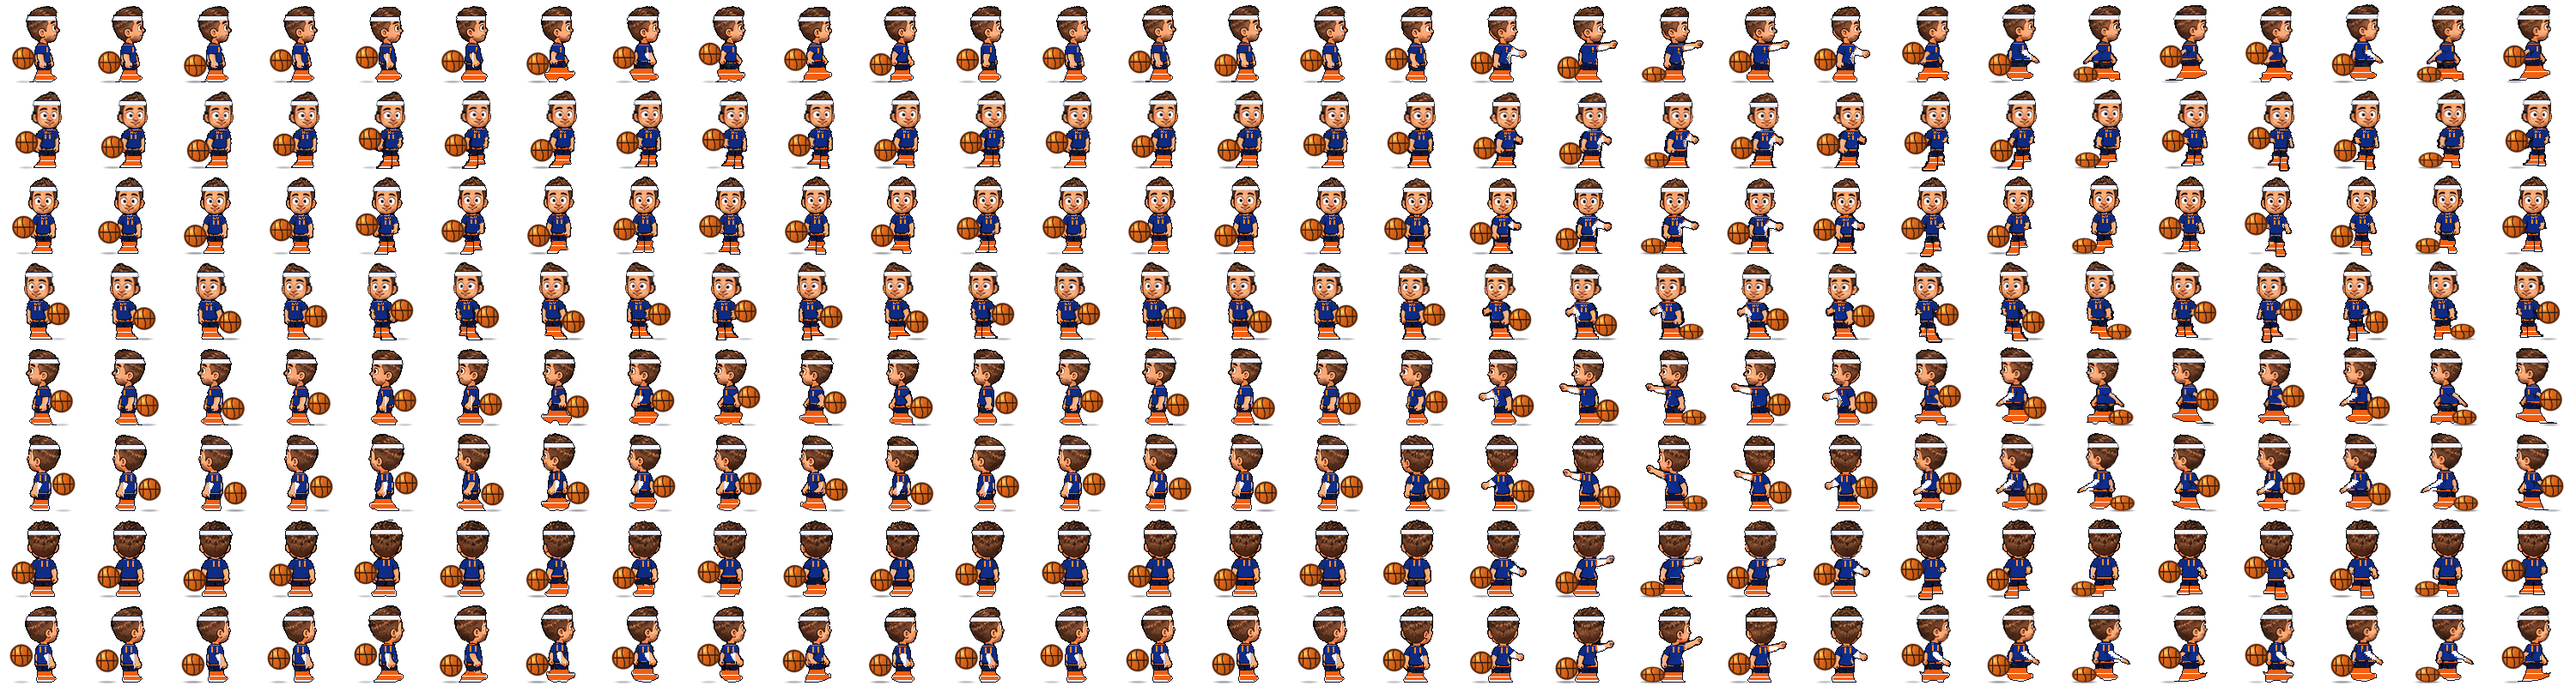
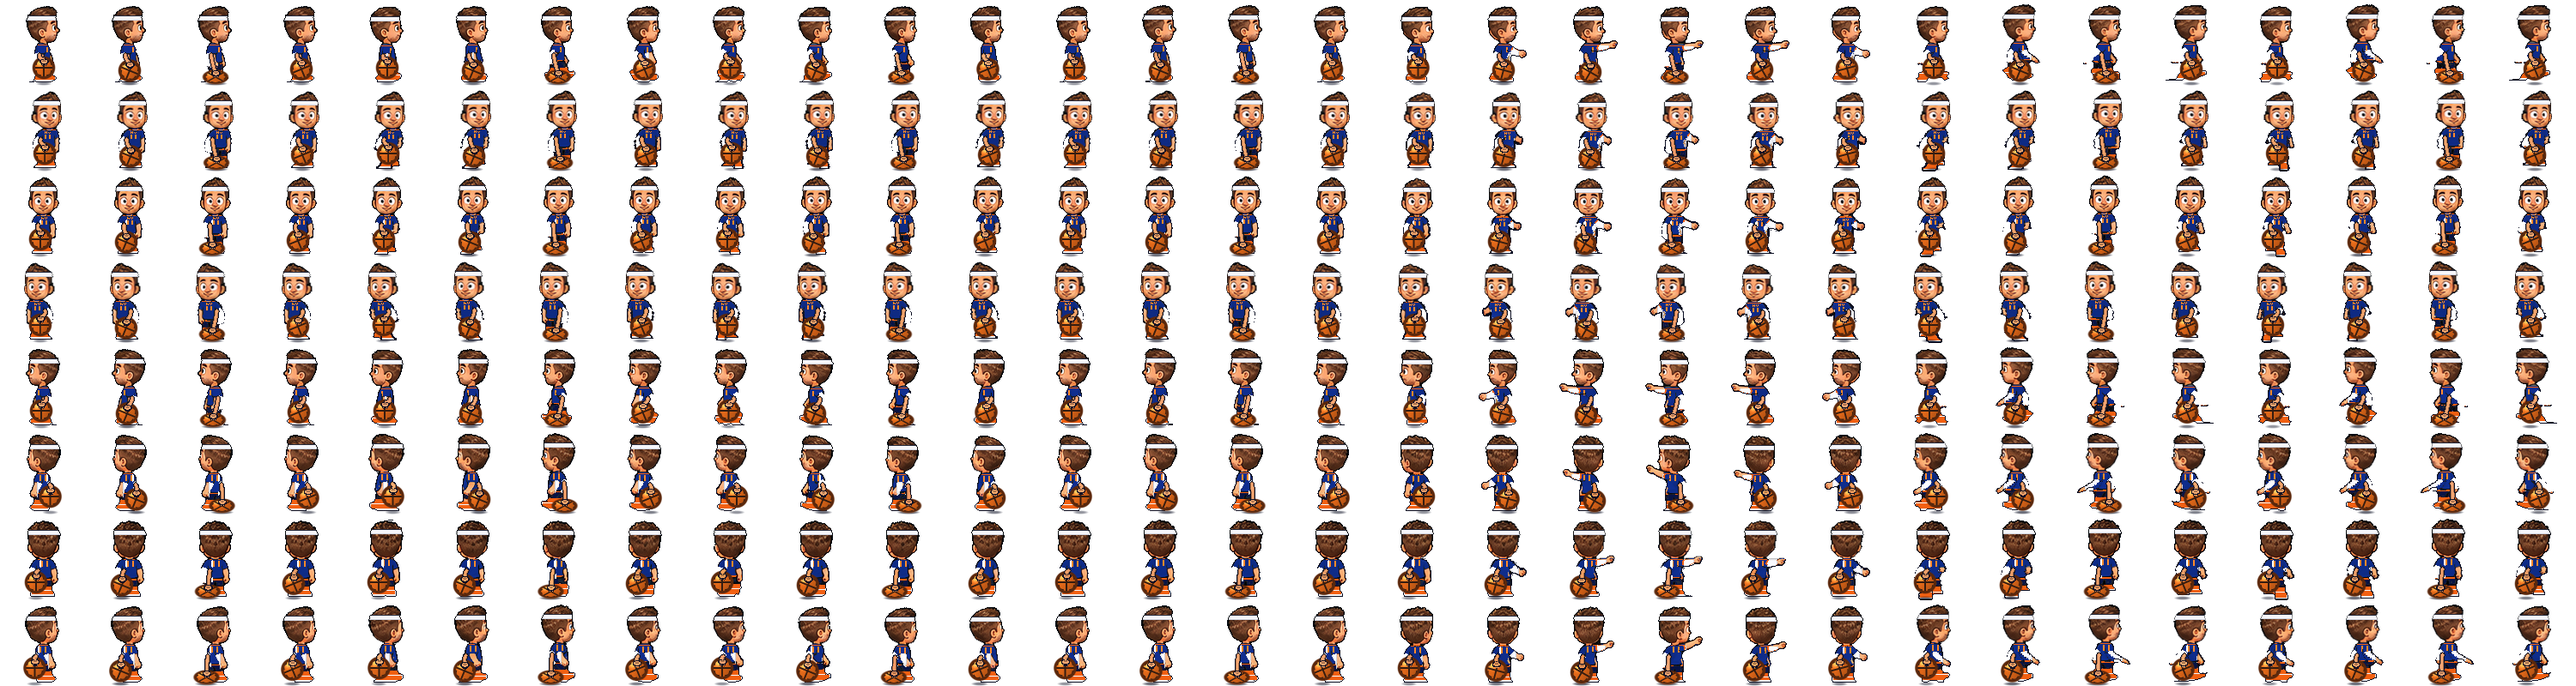
Draw a dribbling arm and spin the ball in front of the feet.
The ball now lands over the legs, with its bounce bottom at or below the feet and a ground shadow. The non-tagging arm is redrawn from the shoulder onto the ball so the hand stays with it on every frame, including the tag reach. Seams turn a quarter rotation each bounce.

diff --git a/phaser-tag-client/tools/make_basketball_skin.py b/phaser-tag-client/tools/make_basketball_skin.py
@@ -16,12 +16,16 @@ Per frame:
   3. the arm James tags with -> white compression sleeve (hand stays bare);
   4. white headband across the forehead (wraps the hair on back views);
   5. sneakers -> orange with a white sole, side stripe and toe;
-  6. an orange basketball with dark seams, dribbled on every frame by the
-     other hand. It bounces from that hand toward the ground in step with
-     the animation and is always drawn in front of the body, off to the
-     dribbling side, so it stays fully visible in every direction.
+  6. an orange basketball with dark seams, dribbled on every frame. The
+     ball sits in front of the legs (low on the screen, contact at or
+     below the feet) with a ground shadow. The dribbling arm is redrawn
+     from the shoulder onto the ball so the hand tracks the bounce. Seams
+     turn 90 degrees per bounce. North views keep the ball just off the
+     dribbling hand, still low and drawn over the body. The sleeve arm
+     still reaches on the tag frames.
 
-Face, hair (under the headband) and hands are untouched.
+Face and hair (under the headband) are untouched. The tagging hand stays
+the original skin; the dribbling arm is painted over the body.
 
 Requires: Python 3 + Pillow + numpy.  Usage:
     python3 tools/make_basketball_skin.py [--preview /tmp/basketball_preview.png]
@@ -128,17 +132,26 @@ def centered_pattern(pattern: tuple[str, ...], cx: float, y: int) -> tuple[int, 
     return int(round(cx - (width - 1) / 2)), y
 
 
-# Bounce amount: 0 = up in the hand, 1 = on the ground.
-# Idle, breathe and walk (the skins-card preview) stay up by the hand.
-# A full rest on the floor reads as the ball just sitting by the feet.
-# Run and tag still bounce all the way down.
+# Bounce amount: 0 = up in the hand, 1 = on the ground in front of the feet.
+# Every loop (including idle, which the skins card plays) shows the full
+# dribble: hand on the ball, push down, contact, rebound.
 def bounce_t(anim: str, index: int) -> float:
-    if anim in ("idle", "breathe", "walk"):
-        return (0.0, 0.38, 0.62, 0.22)[index % 4]
-    if anim == "run":
-        return (0.0, 0.70, 1.0, 0.28)[index % 4]
-    # tag: 6 frames, squash on the held reach (index 3)
-    return (0.08, 0.42, 0.82, 1.0, 0.48, 0.14)[index]
+    if anim == "tag":
+        # squash on the held reach (index 3); the sleeve arm is out tagging
+        return (0.0, 0.48, 0.86, 1.0, 0.42, 0.12)[index]
+    return (0.0, 0.58, 1.0, 0.30)[index % 4]
+
+
+# Clockwise quarter-turn per bounce. The seam pattern is 90-degree
+# symmetric, so the first frame of the next bounce matches the last step
+# and the loop does not pop. Same direction in every facing.
+SPIN_PER_BOUNCE = 90.0
+
+
+def spin_deg(anim: str, index: int) -> float:
+    if anim == "tag":
+        return index * (SPIN_PER_BOUNCE / 6.0)
+    return (index % 4) * (SPIN_PER_BOUNCE / 4.0)
 
 
 def dribble_hand(f: np.ndarray, g: Geometry, direction: str) -> tuple[float, float]:
@@ -216,20 +229,22 @@ def fist_mask(arm: np.ndarray, g: Geometry, direction: str) -> np.ndarray:
     return arm & ((xx - g.head_cx) * tag >= cut) & (np.arange(h)[:, None] > g.neck)
 
 
-def ball_layer(size, cx: float, cy: float, rx: float, ry: float, shadow: float) -> np.ndarray:
-    """Premultiplied basketball + a ground shadow. `shadow` is 0..1 strength."""
+def ball_layer(size, cx: float, cy: float, rx: float, ry: float, shadow: float,
+               spin: float) -> np.ndarray:
+    """Premultiplied basketball + a ground shadow. `shadow` is 0..1 strength.
+    `spin` is degrees clockwise; only the seams turn (the highlight stays put)."""
     Y, X = grid(size)
     col = np.zeros((*Y.shape, 3), dtype=np.float64)
     alpha = np.zeros(Y.shape, dtype=np.float64)
 
-    # contact shadow, sitting on the ground line
+    # contact shadow on the ground, under the ball, a hair in front of the feet
     if shadow > 0.02:
-        sx = (X - cx) / (rx * (0.62 + 0.45 * shadow))
-        sy = (Y - (GROUND - 0.6)) / 1.55
+        sx = (X - cx) / (rx * (0.55 + 0.28 * shadow))
+        sy = (Y - (GROUND + 1.5)) / 2.05
         sd = sx * sx + sy * sy
-        sa = np.clip(1.15 - sd, 0.0, 1.0) * (0.16 + 0.42 * shadow)
+        sa = np.clip(1.2 - sd, 0.0, 1.0) * (0.28 + 0.55 * shadow)
         # don't let the shadow paint over the ball fill; ball wins later
-        alpha = np.maximum(alpha, sa * 0.85)
+        alpha = np.maximum(alpha, sa * 0.9)
         col = np.where(sa[..., None] > 0.04, INK, col)
 
     nx = (X - cx) / max(rx, 0.1)
@@ -248,17 +263,31 @@ def ball_layer(size, cx: float, cy: float, rx: float, ry: float, shadow: float) 
     col = np.where(inside[..., None], base, col)
     alpha = np.where(inside, np.maximum(alpha, aa), alpha)
 
-    # seams in normalised ball space, so they follow the squash
+    # seams in normalised ball space, so they follow the squash.
+    # Sampled through a clockwise rotation. The motif itself (cross plus
+    # four copied panel arcs) has 90-degree symmetry, so a quarter-turn
+    # per bounce lands back on the same picture.
+    ang = np.deg2rad(spin)
+    ca, sa = np.cos(ang), np.sin(ang)
+    px = nx * ca + ny * sa
+    py = -nx * sa + ny * ca
+
     def seam(mask: np.ndarray) -> None:
         m = mask & (r < 0.96)
         col[m] = SEAM
         alpha[m] = np.maximum(alpha[m], aa[m])
 
-    seam(np.abs(ny) < 0.055)
-    seam(np.abs(nx - 0.12 * np.sin(ny * np.pi)) < 0.05)
-    seam((np.abs(np.abs(nx) - 0.55) < 0.045) & (np.abs(ny) < 0.62))
+    band = 0.072
+    seam((np.abs(px) < band) | (np.abs(py) < band))
+    for k in range(4):
+        a = k * (np.pi / 2.0)
+        c, s = np.cos(a), np.sin(a)
+        qx = px * c + py * s
+        qy = -px * s + py * c
+        arc = np.abs(np.hypot(qx - 0.20, qy) - 0.68) < 0.055
+        seam(arc & (qx > 0.22) & (np.abs(qy) < 0.70))
     # outline
-    edge = inside & (r > 0.84)
+    edge = inside & (r > 0.76)
     col[edge] = BALL_EDGE
     return down(col, alpha, size)
 
@@ -418,31 +447,138 @@ def paint_uniform(f: np.ndarray, g: Geometry, direction: str) -> tuple[np.ndarra
     return out, chest, hands | fist
 
 
-def place_ball(body: np.ndarray, g: Geometry, direction: str, anim: str, index: int) -> tuple[float, float, float, float, bool]:
-    """cx, cy, rx, ry. The ball is always beside the dribbling hand and
-    drawn in front of the body (see baller)."""
+def place_ball(g: Geometry, direction: str, anim: str, index: int) -> tuple[float, float, float, float]:
+    """Ball in front of the kid: overlapping the legs, contact at or below
+    the feet line (toward the camera). Back views shift it onto the
+    dribbling-hand side so it isn't buried in the torso, but the contact
+    stays on the near side of the feet."""
     side = -TAG_SIDE[direction]
-    _hx, hy = dribble_hand(body, g, direction)
+    # screen-x of the direction he faces. Depth ("in front") is always +y.
+    ahead = {"E": 1.0, "SE": 0.70, "S": 0.0, "SW": -0.70, "W": -1.0,
+             "NW": -0.40, "N": 0.0, "NE": 0.40}[direction]
     t = bounce_t(anim, index)
     squashed = t > 0.92
-    ry = BALL_R * (0.70 if squashed else 1.0)
-    rx = BALL_R * (1.10 if squashed else 1.0)
-    # Far enough out that the ball sits beside the body instead of inside
-    # the silhouette. Back views push a little further so the circle clears
-    # the shoulders. X does not follow the swinging arm.
-    outward = {"E": 22.0, "SE": 22.4, "S": 23.0, "SW": 22.4,
-               "W": 22.0, "NW": 23.6, "N": 24.2, "NE": 23.6}[direction]
-    if anim == "tag":
-        outward += 1.6
-    bx = g.head_cx + side * outward
-    # Top of the bounce is up by the hand. A raised run arm must not
-    # carry the ball into the face.
-    cy_hand = float(np.clip(hy - BALL_R * 0.15, g.hem - 22.0, g.hem - 10.0))
-    cy_ground = GROUND - ry
-    cy = cy_hand + (cy_ground - cy_hand) * (t ** 1.15)
+    ry = BALL_R * (0.64 if squashed else 1.0)
+    rx = BALL_R * (1.16 if squashed else 1.0)
+    if direction in BACK:
+        # just off the dribbling hand, still overlapping that leg
+        bx = g.head_cx + side * 9.0 + ahead * 2.5
+    elif direction in PROFILE:
+        bx = g.head_cx + ahead * 3.5 + side * 2.0
+    else:
+        bx = g.head_cx + side * 3.5 + ahead * 3.0
+    # unsquashed contact: bottom ~2px below the feet. The high point only
+    # lifts a little, so the ball stays in front of the legs instead of
+    # riding up beside the hip. Squash keeps the same bottom.
+    contact_y = GROUND + 2.2
+    cy_contact = contact_y - BALL_R
+    lift = 6.0
+    if squashed:
+        cy = contact_y - ry
+    else:
+        cy = (cy_contact - lift) + lift * (t ** 1.05)
     margin = 1.0
-    bx = float(np.clip(bx, rx + margin, body.shape[1] - rx - margin))
+    bx = float(np.clip(bx, rx + margin, 100.0 - rx - margin))
     return bx, float(cy), float(rx), float(ry)
+
+
+def drop_limp_arm(body: np.ndarray, g: Geometry, direction: str) -> np.ndarray:
+    """Remove the hanging arm on the dribble side. The sleeve (tag) arm is
+    white, so the skin arm left on that side is the one we replace. The
+    tag-side fist stays, including on the reach frames."""
+    h, w = body.shape[:2]
+    yy = np.arange(h)[:, None]
+    xx = np.arange(w)[None, :].astype(np.float64)
+    side = float(-TAG_SIDE[direction])
+    face = (yy <= g.neck + 1) & skin_mask(body)
+    arms, _hands = arms_and_hands(body, g, face)
+    on_side = (xx - g.head_cx) * side > 3.0
+    limp = arms & on_side & (yy > g.neck + 1)
+    dark = alpha_mask(body) & (lum(body) < 70) & on_side & (yy > g.neck + 1)
+    limp = limp | grow(limp, dark, 1)
+    out = body.copy()
+    out[limp] = 0
+    return out
+
+
+def _stamp(rgba: np.ndarray, pts: np.ndarray, rx: float, ry: float, color: np.ndarray) -> None:
+    """Hard-edged discs. rx == ry is a circle; a wider rx reads as a mitt."""
+    h, w = rgba.shape[:2]
+    ys = np.arange(h)[:, None]
+    xs = np.arange(w)[None, :]
+    mask = np.zeros((h, w), dtype=bool)
+    for x, y in pts:
+        mask |= ((xs - x) / rx) ** 2 + ((ys - y) / ry) ** 2 <= 1.0
+    rgba[mask, :3] = np.clip(color, 0, 255)
+    rgba[mask, 3] = 255
+
+
+def _segment(p0: tuple[float, float], p1: tuple[float, float], n: int = 14) -> np.ndarray:
+    ts = np.linspace(0.0, 1.0, n)
+    return np.stack([p0[0] * (1 - ts) + p1[0] * ts, p0[1] * (1 - ts) + p1[1] * ts], axis=1)
+
+
+def draw_dribble_arm(rgba: np.ndarray, g: Geometry, direction: str,
+                     bx: float, by: float, ry: float, t: float) -> None:
+    """Slim arm from the shoulder to a mitt on the crown of the ball.
+    A small outward bow while the ball is up, straightening as the hand
+    pushes down. The forearm stops at the wrist so it doesn't stab
+    through the ball. Drawn after the ball."""
+    side = float(-TAG_SIDE[direction])
+    if direction in PROFILE:
+        sx = g.head_cx + side * 6.0
+        sy = float(g.neck + 14)
+    elif direction in BACK:
+        sx = g.head_cx + side * 9.0
+        sy = float(g.neck + 15)
+    else:
+        sx = g.head_cx + side * 8.5
+        sy = float(g.neck + 13)
+    # start inside the shirt so the arm grows out of the shoulder
+    sx0, sy0 = sx - side * 2.0, sy
+
+    # mitt centred on the crown, overlapping the leather
+    hx = bx
+    hy = by - ry * 0.58
+    # wrist: a few pixels above the mitt, back toward the shoulder
+    wx = hx + (sx0 - hx) * 0.22
+    wy = hy - 2.6
+
+    bow = 2.6 * (1.0 - t) + 0.8
+    mx = (sx0 + wx) * 0.5 + side * bow
+    my = (sy0 + wy) * 0.5 + 0.6
+    ts = np.linspace(0.0, 1.0, 22)
+    omt = 1.0 - ts
+    limb = np.stack([
+        omt ** 2 * sx0 + 2 * omt * ts * mx + ts ** 2 * wx,
+        omt ** 2 * sy0 + 2 * omt * ts * my + ts ** 2 * wy,
+    ], axis=1)
+
+    face = skin_mask(rgba) & (np.arange(rgba.shape[0])[:, None] < g.neck - 2)
+    face = face & (np.arange(rgba.shape[0])[:, None] > g.top + 16)
+    samples = rgba[face][:, :3].astype(np.float64)
+    if len(samples) >= 8:
+        tone = np.median(samples, axis=0)
+    else:
+        tone = np.array([244.0, 190.0, 140.0])
+    shade = np.clip(tone * 0.70, 0, 255)
+    edge = INK
+
+    # forearm ~6px wide, close to the kid's own arms
+    _stamp(rgba, limb, 3.15, 3.15, edge)
+    _stamp(rgba, limb, 2.15, 2.15, shade)
+    _stamp(rgba, limb, 1.25, 1.25, tone)
+
+    # three short fingers on the leather, then the palm over their base
+    fingers = []
+    for dx in (-2.5, 0.0, 2.5):
+        fingers.append(_segment((hx + dx, hy + 0.2), (hx + dx * 0.75, hy + 3.5), 6))
+    fing = np.concatenate(fingers, axis=0)
+    _stamp(rgba, fing, 1.35, 1.35, edge)
+    _stamp(rgba, fing, 0.75, 0.75, tone)
+    _stamp(rgba, np.array([[hx, hy + 0.3]]), 5.3, 3.5, edge)
+    _stamp(rgba, np.array([[hx, hy]]), 3.9, 2.4, tone)
+    _stamp(rgba, np.array([[hx, hy - 0.7]]), 2.2, 1.15, shade)
 
 
 def baller(frame: np.ndarray, direction: str, anim: str, index: int) -> np.ndarray:
@@ -451,13 +587,15 @@ def baller(frame: np.ndarray, direction: str, anim: str, index: int) -> np.ndarr
         return src
     g = Geometry(src)
     body, _chest, _hands = paint_uniform(src, g, direction)
-    # geometry may have shifted a pixel after streak-filling; re-read it
     g = Geometry(body)
-    bx, by, rx, ry = place_ball(body, g, direction, anim, index)
+    body = drop_limp_arm(body, g, direction)
     t = bounce_t(anim, index)
-    layer = ball_layer(body.shape[:2], bx, by, rx, ry, shadow=0.25 + 0.75 * t)
-    # Always in front. Nothing, including the back of the jersey, covers it.
-    return to_u8(over(premul(body), layer))
+    bx, by, rx, ry = place_ball(g, direction, anim, index)
+    layer = ball_layer(body.shape[:2], bx, by, rx, ry, shadow=0.40 + 0.60 * t, spin=spin_deg(anim, index))
+    merged = to_u8(over(premul(body), layer))
+    # arm and hand over the body and over the top of the ball
+    draw_dribble_arm(merged, g, direction, bx, by, ry, t)
+    return merged
 
 
 def anim_of(col: int, meta: dict) -> tuple[str, int]:

diff --git a/phaser-tag-client/README.md b/phaser-tag-client/README.md
@@ -335,8 +335,10 @@ skin carries its own frame size and feet line. Animation keys are
   `tools/make_basketball_skin.py`. Navy jersey with orange trim, an NY
   wordmark and number 11 on the front (11 on the back), white headband,
   white compression sleeve on the tagging arm, and orange sneakers. An
-  orange basketball is dribbled in every animation, on the hand that is
-  not tagging, and drawn in front of the body in every direction. Footsteps
+  orange basketball is dribbled in every animation. The dribbling arm is
+  drawn from the shoulder onto the ball (the other arm still tags), the
+  ball stays in front of the legs with a ground shadow, and the seams
+  turn a quarter rotation each bounce. Footsteps
   are a gym-floor sneaker squeak (`basketballStep`). Re-run:
   `python3 tools/make_basketball_skin.py [--preview /tmp/basketball.png]`.
 
